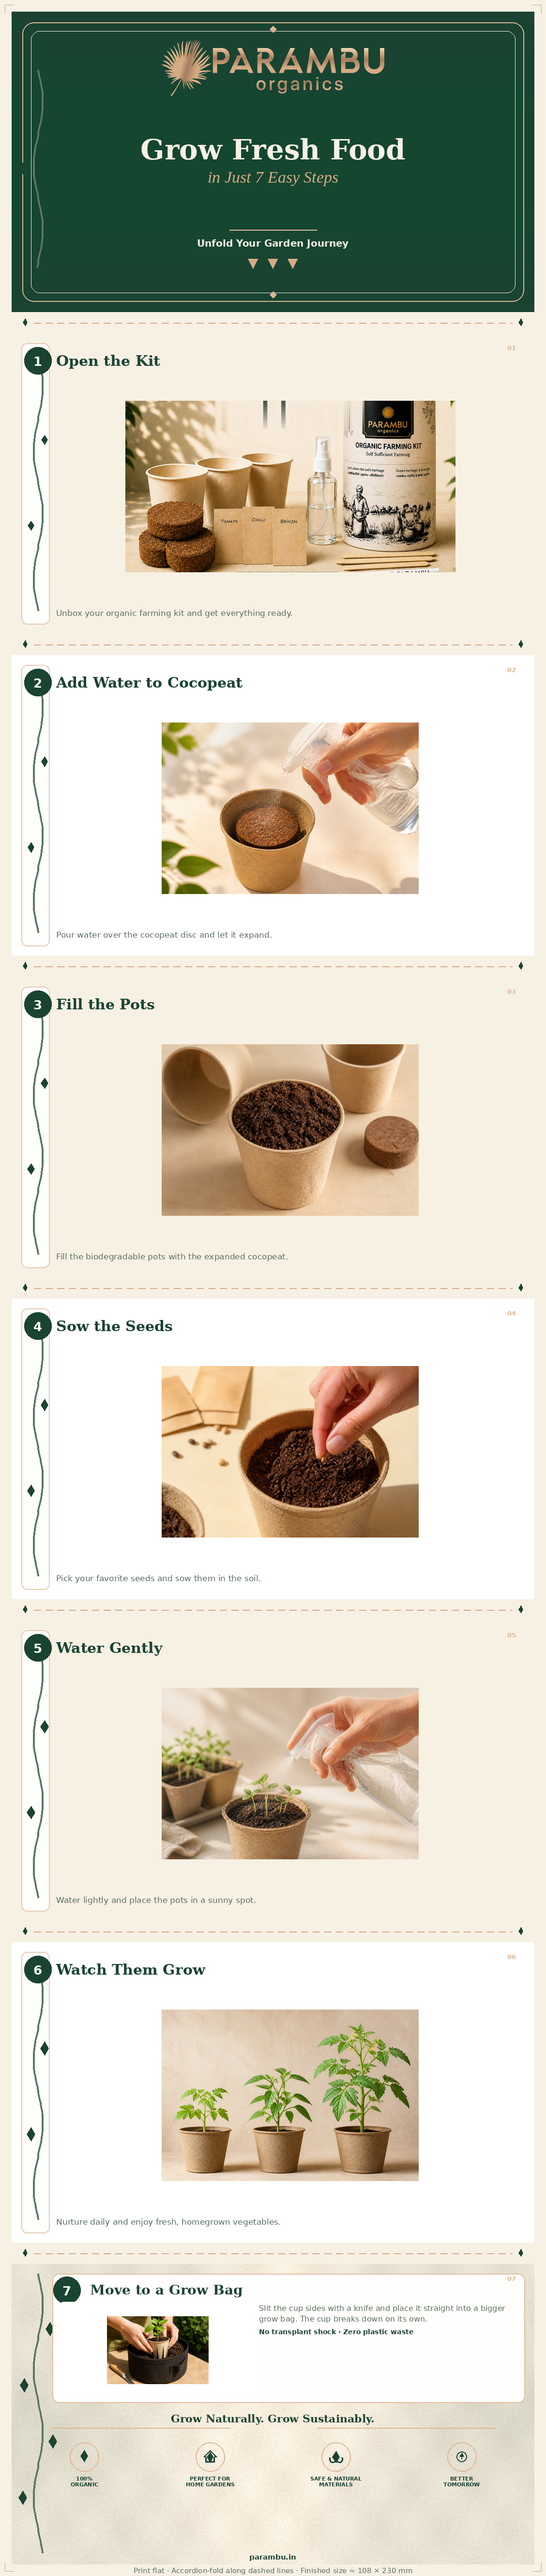
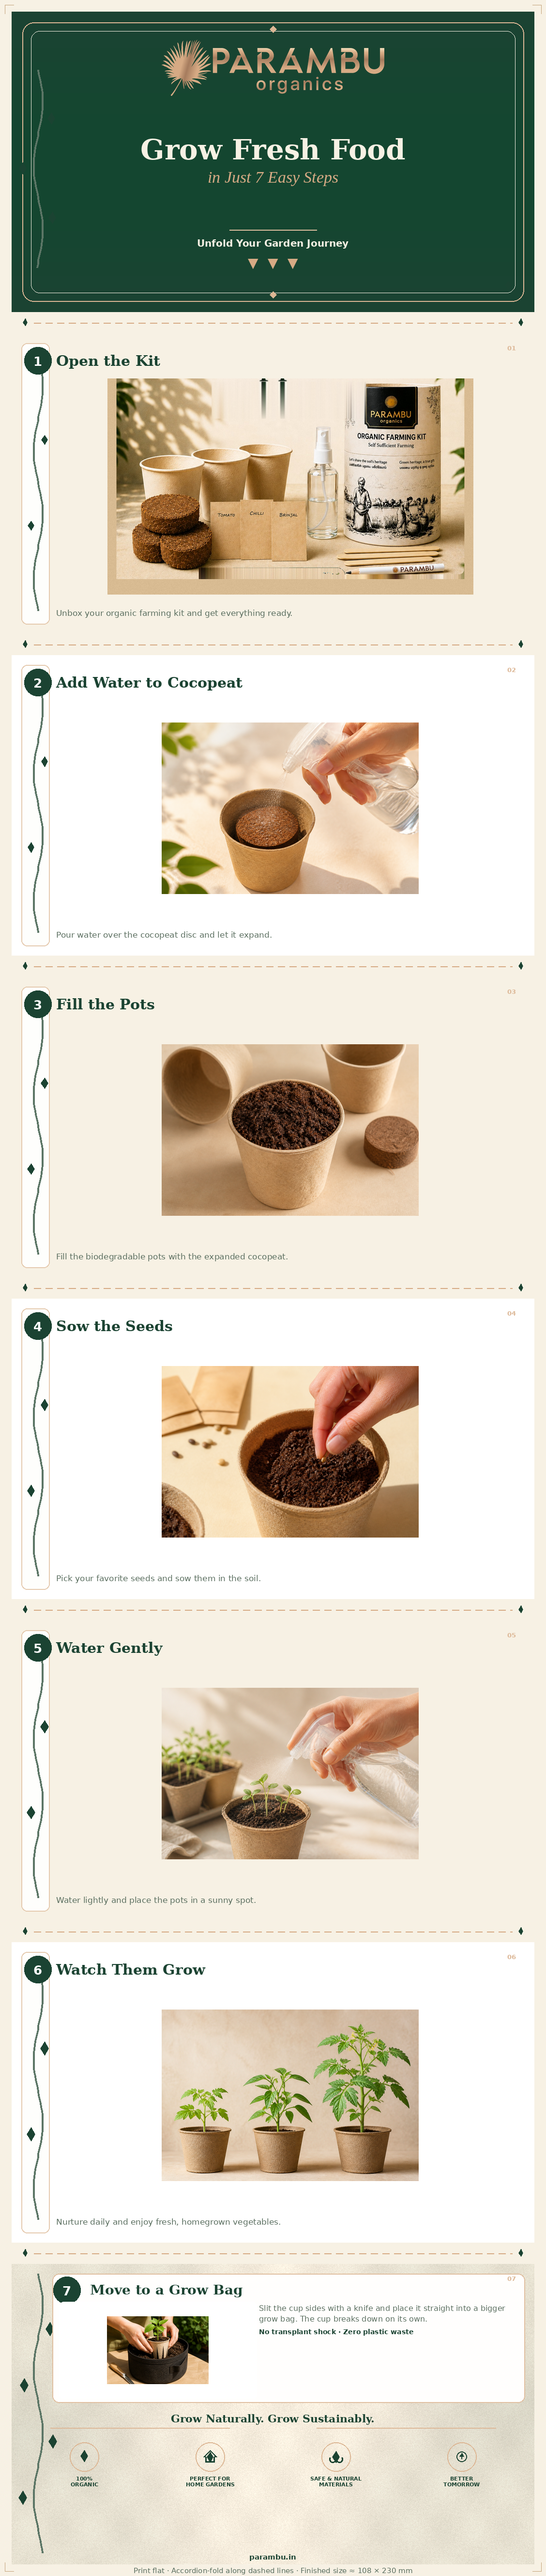
Show the branded pencil fully on grow kit step 1
Extend the Kit-Poster3 crop through the pencil, wipe the green What's
Inside banner, restore the pencil with a geometric mask, and add sand
margins so tip and barrel stay inside the panel frame.

Changed region(s): [[0.1862, 0.1249, 0.8688, 0.2498]]

diff --git a/brand/assets/grow-kit-guide/generate_user_guide.py b/brand/assets/grow-kit-guide/generate_user_guide.py
@@ -37,12 +37,21 @@ FOLD_INNER_PAD = 20
 PHOTO_ZOOM = 0.86
 PHOTO_PAD = 28
 
-# Step 1 is rebuilt from the kit poster product band: erase the poster subtitle,
-# then crop the full kit spread (cups, discs, seeds, spray, canister, sticks).
+# Step 1 is rebuilt from the kit poster product band: erase the poster subtitle
+# and green "What's Inside" banner, restore the branded pencil, then crop the
+# full kit spread (cups, discs, seeds, spray, canister, sticks, pencil).
 KIT_POSTER = "Kit-Poster3.jpeg"
-KIT_POSTER_CROP = (10, 430, 1076, 983)
+# Crop through the pencil; extra sand margin is appended after wipe/restore.
+KIT_POSTER_CROP = (4, 395, 1086, 1024)
 KIT_POSTER_TEXT_BOX = (300, 405, 780, 520)
+KIT_POSTER_BANNER_BOX = (260, 978, 1086, 1040)
+KIT_POSTER_PENCIL_BOX = (470, 960, 1086, 1010)
+KIT_POSTER_SAND_SAMPLE = (620, 940, 780, 970)
+KIT_POSTER_BOTTOM_MARGIN = 48
+KIT_POSTER_SIDE_MARGIN = 28
 STEP_ONE_PHOTO = "step-01-open-kit.png"
+STEP_ONE_PHOTO_ZOOM = 0.97
+STEP_ONE_PHOTO_PAD = 8
 
 # Cards per row; the final row holds the single transplanting step, centred.
 ROW_LAYOUT = [3, 3, 1]
@@ -133,6 +142,83 @@ def erase_poster_subtitle(poster: Image.Image) -> None:
     poster.paste(feathered, (x0 - 8, y0 - 8))
 
 
+def _sample_mean_color(image: Image.Image, box: tuple[int, int, int, int]) -> tuple[float, float, float]:
+    patch = image.crop(box).convert("RGB")
+    px = patch.load()
+    total = [0.0, 0.0, 0.0]
+    count = 0
+    for y in range(patch.height):
+        for x in range(patch.width):
+            r, g, b = px[x, y]
+            total[0] += r
+            total[1] += g
+            total[2] += b
+            count += 1
+    count = max(1, count)
+    return total[0] / count, total[1] / count, total[2] / count
+
+
+def _pencil_mask(size: tuple[int, int], origin: tuple[int, int]) -> Image.Image:
+    """Opaque mask covering the branded pencil tip + barrel in poster coordinates."""
+    mask = Image.new("L", size, 0)
+    draw = ImageDraw.Draw(mask)
+    ox, oy = origin
+    # Barrel (rounded capsule) and tip, mapped into the local patch.
+    draw.rounded_rectangle((690 - ox, 968 - oy, 1084 - ox, 1008 - oy), radius=16, fill=255)
+    # Sharpened tip tapering left.
+    tip = [
+        (470 - ox, 988 - oy),
+        (700 - ox, 968 - oy),
+        (700 - ox, 1008 - oy),
+    ]
+    draw.polygon(tip, fill=255)
+    return mask.filter(ImageFilter.GaussianBlur(0.8))
+
+
+def erase_poster_banner(poster: Image.Image) -> None:
+    """Paint out the green What's Inside banner, then put the pencil back on top."""
+    x0, y0, x1, y1 = KIT_POSTER_BANNER_BOX
+    x1 = min(x1, poster.width)
+    y1 = min(y1, poster.height)
+    sand = _sample_mean_color(poster, KIT_POSTER_SAND_SAMPLE)
+    source = poster.copy()
+    src = source.load()
+    px = poster.load()
+    rng = random.Random(21)
+
+    for y in range(y0, y1):
+        t = (y - y0) / max(1, y1 - 1 - y0)
+        edge = min(1.0, (y - y0) / 6.0)
+        for x in range(x0, x1):
+            base = src[x, max(0, y0 - 8)]
+            filled = tuple(
+                max(0, min(255, int(base[i] * (1 - 0.35 * t) + sand[i] * (0.35 * t) + rng.randint(-5, 5))))
+                for i in range(3)
+            )
+            if edge < 1.0:
+                px[x, y] = tuple(int(src[x, y][i] * (1 - edge) + filled[i] * edge) for i in range(3))
+            else:
+                px[x, y] = filled
+
+    px0, py0, px1, py1 = KIT_POSTER_PENCIL_BOX
+    px1 = min(px1, poster.width)
+    py1 = min(py1, poster.height)
+    patch = source.crop((px0, py0, px1, py1)).convert("RGBA")
+    mask = _pencil_mask(patch.size, (px0, py0))
+    # Keep green banner pixels out of the restored pencil patch.
+    pp = patch.load()
+    mp = mask.load()
+    for y in range(patch.height):
+        for x in range(patch.width):
+            r, g, b, _a = pp[x, y]
+            if g > r + 10 and g > b + 10 and r < 110:
+                mp[x, y] = 0
+    patch.putalpha(mask)
+    composed = poster.convert("RGBA")
+    composed.alpha_composite(patch, (px0, py0))
+    poster.paste(composed.convert("RGB"))
+
+
 def load_cover_logo(width: int) -> Image.Image:
     """Load the wordmark with black keyed out for a clean overlay on forest green."""
     logo = Image.open(COVER_LOGO_PATH).convert("RGBA")
@@ -151,6 +237,18 @@ def load_cover_logo(width: int) -> Image.Image:
     return logo.resize((width, logo_h), Image.Resampling.LANCZOS)
 
 
+def _make_sand_margin(width: int, height: int, sand: tuple[float, float, float]) -> Image.Image:
+    """Build a quiet sand strip so the pencil isn't flush with the frame edge."""
+    margin = Image.new("RGB", (width, height), tuple(int(c) for c in sand))
+    px = margin.load()
+    rng = random.Random(33)
+    for y in range(height):
+        for x in range(width):
+            grain = rng.randint(-6, 6)
+            px[x, y] = tuple(max(0, min(255, int(sand[i]) + grain)) for i in range(3))
+    return margin.filter(ImageFilter.GaussianBlur(0.4))
+
+
 def refresh_step_one_photo() -> None:
     """Rebuild the step 1 photo from Kit-Poster3 so the kit spread stays current."""
     source = STEPS_DIR / KIT_POSTER
@@ -158,7 +256,24 @@ def refresh_step_one_photo() -> None:
         return
     poster = Image.open(source).convert("RGB")
     erase_poster_subtitle(poster)
-    poster.crop(KIT_POSTER_CROP).save(STEPS_DIR / STEP_ONE_PHOTO, "PNG", optimize=True)
+    erase_poster_banner(poster)
+    crop = poster.crop(KIT_POSTER_CROP)
+    sand = _sample_mean_color(poster, KIT_POSTER_SAND_SAMPLE)
+    bottom = _make_sand_margin(crop.width, KIT_POSTER_BOTTOM_MARGIN, sand)
+    side = KIT_POSTER_SIDE_MARGIN
+    framed = Image.new(
+        "RGB",
+        (crop.width + side * 2, crop.height + KIT_POSTER_BOTTOM_MARGIN),
+        tuple(int(c) for c in sand),
+    )
+    # Quiet side margins so the pencil tip/end aren't flush with the frame.
+    left = _make_sand_margin(side, framed.height, sand)
+    right = _make_sand_margin(side, framed.height, sand)
+    framed.paste(left, (0, 0))
+    framed.paste(right, (framed.width - side, 0))
+    framed.paste(crop, (side, 0))
+    framed.paste(bottom, (side, crop.height))
+    framed.save(STEPS_DIR / STEP_ONE_PHOTO, "PNG", optimize=True)
 
 
 def resolve_photo(candidates: str | tuple[str, ...]) -> Path:
@@ -295,6 +410,7 @@ def prepare_photo(
     zoom: float = 1.0,
     pad: int = 12,
     bg: tuple[int, int, int] = CREAM,
+    corner_radius: int = 10,
 ) -> Image.Image:
     """Fit a photo into size. Use contain to letterbox; zoom scales down within the box."""
     src = Image.open(image_path).convert("RGBA")
@@ -312,9 +428,10 @@ def prepare_photo(
             canvas = Image.new("RGBA", size, (*bg, 255))
             canvas.alpha_composite(photo, ((w - photo.width) // 2, (h - photo.height) // 2))
             photo = canvas
-    mask = Image.new("L", size, 0)
-    ImageDraw.Draw(mask).rounded_rectangle((0, 0, w, h), radius=10, fill=255)
-    photo.putalpha(mask)
+    if corner_radius > 0:
+        mask = Image.new("L", size, 0)
+        ImageDraw.Draw(mask).rounded_rectangle((0, 0, w, h), radius=corner_radius, fill=255)
+        photo.putalpha(mask)
     return photo
 
 
@@ -583,13 +700,18 @@ def draw_accordion_step_panel(
     title_bottom = title_y + title_font.size + 10
     photo_top = title_bottom
     photo_h = max(180, desc_y - photo_top - 12)
+    photo_zoom = STEP_ONE_PHOTO_ZOOM if step_num == 1 else PHOTO_ZOOM
+    photo_pad = STEP_ONE_PHOTO_PAD if step_num == 1 else PHOTO_PAD
+    # Keep square corners on step 1 so the bottom-right pencil isn't clipped.
+    corner_radius = 0 if step_num == 1 else 10
     photo = prepare_photo(
         image_path,
         (content_w, photo_h),
         contain=True,
-        zoom=PHOTO_ZOOM,
-        pad=PHOTO_PAD,
+        zoom=photo_zoom,
+        pad=photo_pad,
         bg=tint,
+        corner_radius=corner_radius,
     )
     panel.alpha_composite(photo, (content_x, photo_top))
 
